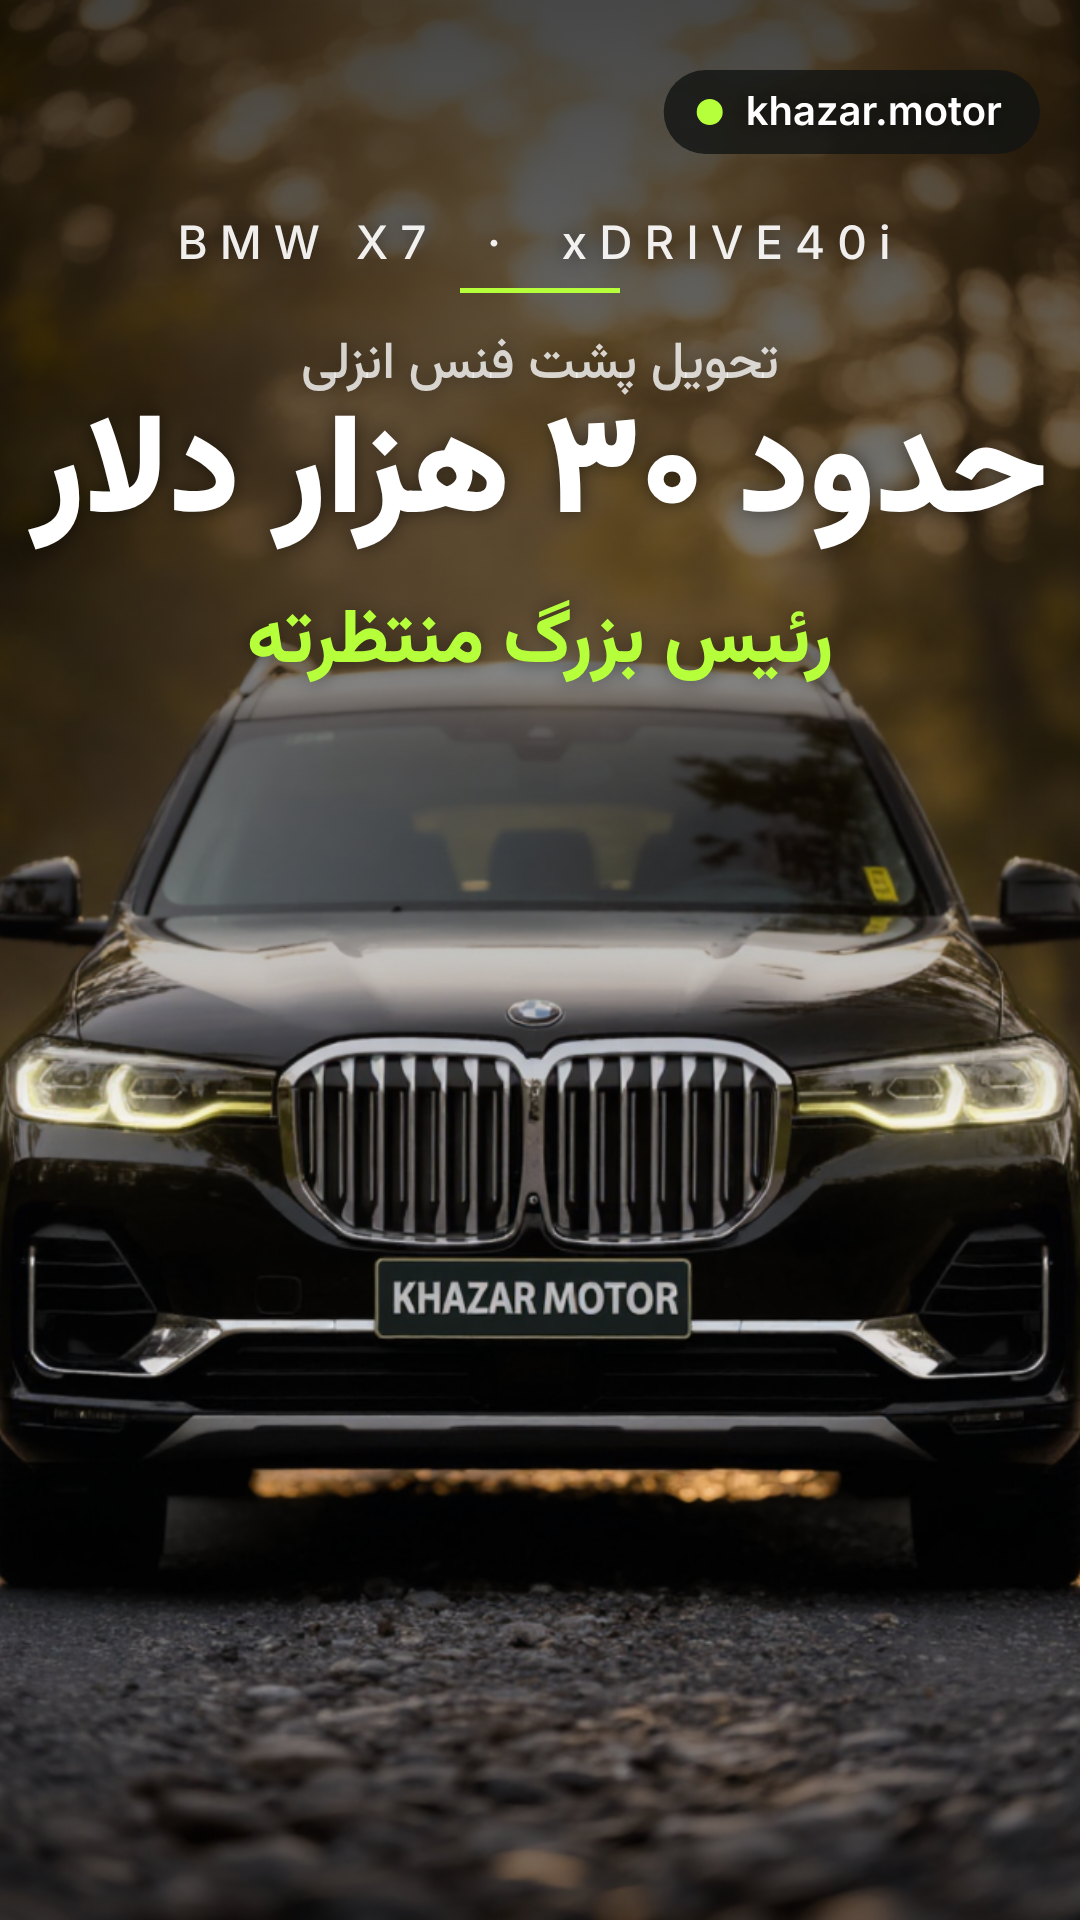
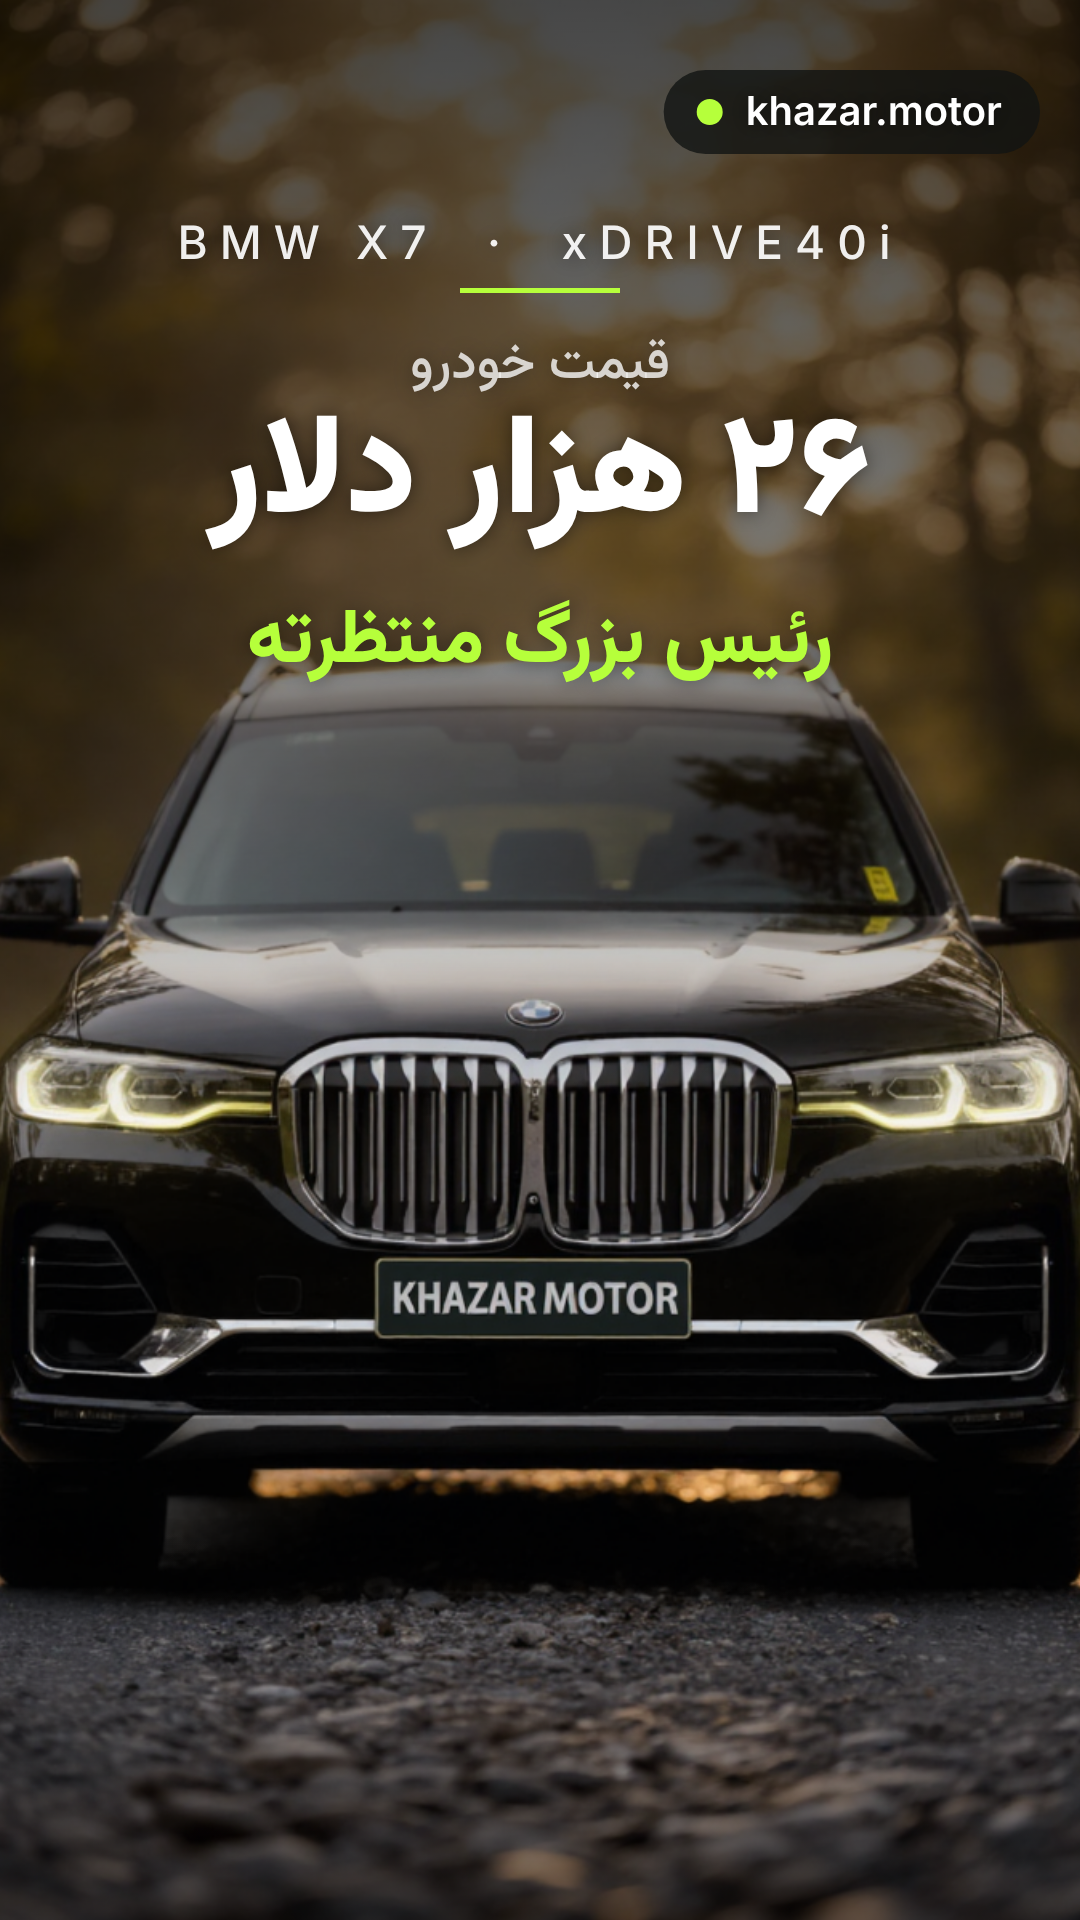
Covers show the car price (26,000) instead of the delivered price
Claude-Session: https://claude.ai/code/session_01TEkDwoTRdQi1hwMvvkidLu

Changed region(s): [[0.0306, 0.1562, 0.9778, 0.2812]]

diff --git a/projects/car-merge/scripts/cover.js b/projects/car-merge/scripts/cover.js
@@ -22,8 +22,8 @@ const fi = f => 'data:font/otf;base64,' + fs.readFileSync('/usr/share/fonts/open
     T('khazar.motor', W - 40 - pw / 2 + 22, 113, '600 40px Inter', '#fff', 'ltr');
     T('BMW X7  ·  xDRIVE40i', W / 2, 245, '500 46px Inter', 'rgba(255,255,255,0.92)', 'ltr', '12px');
     x.fillStyle = LIME; x.fillRect(W / 2 - 80, 288, 160, 5);
-    T('تحویل پشت فنس انزلی', W / 2, 370, '500 52px Vazir', 'rgba(255,255,255,0.78)');
-    T('حدود ۳۰ هزار دلار', W / 2, 490, '900 140px Vazir', '#fff');
+    T('قیمت خودرو', W / 2, 370, '500 52px Vazir', 'rgba(255,255,255,0.78)');
+    T('۲۶ هزار دلار', W / 2, 490, '900 140px Vazir', '#fff');
     T('رئیس بزرگ منتظرته', W / 2, 650, '800 76px Vazir', LIME, 'rtl', '0px', 0);
     return c.toDataURL('image/png');
   }, [b64(`assets/kling/stills/${bg}.png`, 'image/png'), [['Vazir', '500', fv('Vazirmatn-Medium.ttf')], ['Vazir', '800', fv('Vazirmatn-ExtraBold.ttf')], ['Vazir', '900', fv('Vazirmatn-Black.ttf')], ['Inter', '500', fi('Inter-Medium.otf')], ['Inter', '600', fi('Inter-SemiBold.otf')]], carY]);
